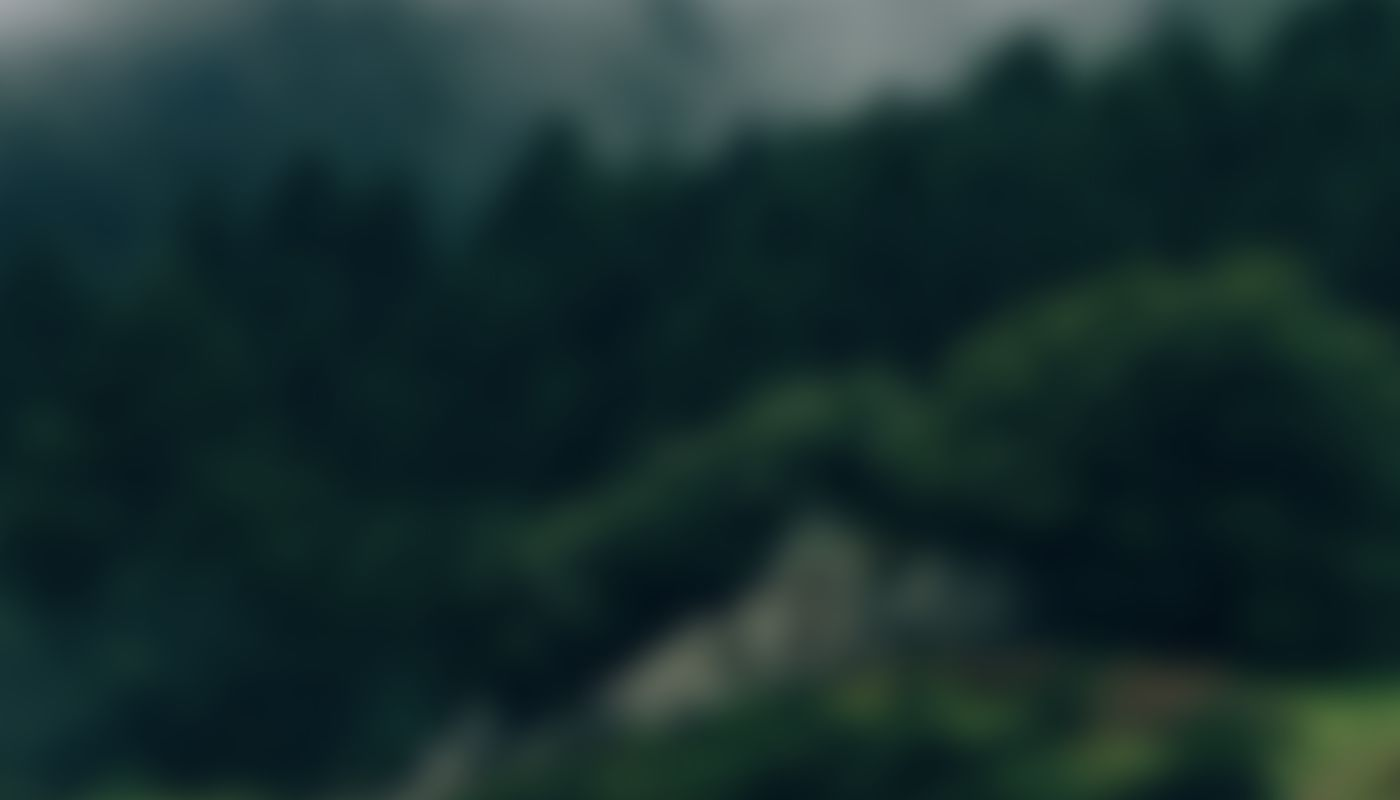
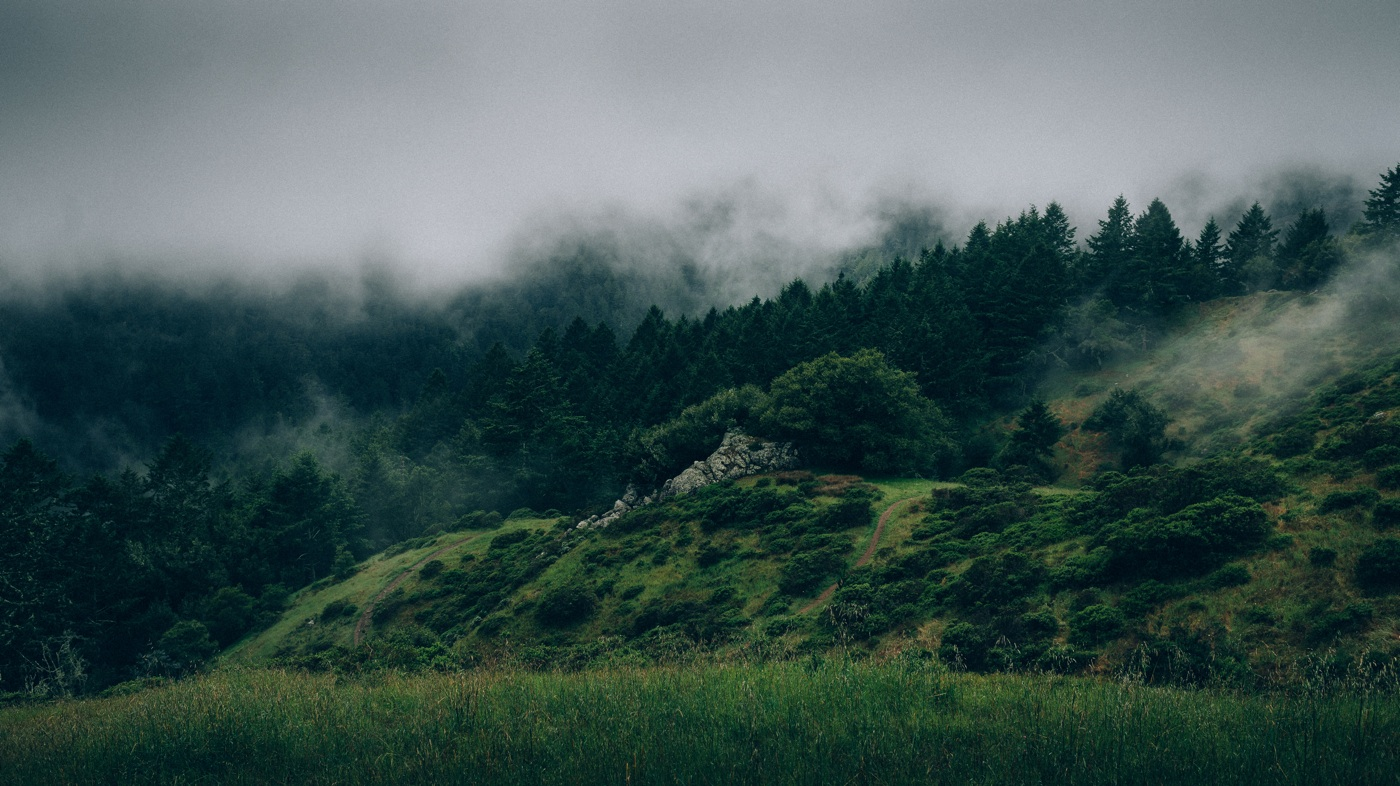
Removed calls to external images, added optimized bg

diff --git a/_includes/css/main.css b/_includes/css/main.css
@@ -51,13 +51,11 @@ header {
     text-align: center;
     color: #fff;
     background: black;
-    /*background-image: url('/img/river.jpg');*/
-    background-image: url('https://s3.amazonaws.com/ooomf-com-files/IHLjdHdzSvi0rgUMMlSK_TE3_0286.jpg');
+    background-image: url('/img/bg.jpg');
     background-size: cover;
     background-position-y: 50%;
+    height: 500px;
 }
-
-/*https://s3.amazonaws.com/ooomf-com-files/pygwO3glRbaBCh2uRyd4_8420_rgb.jpg*/
 
 header .container {
     padding-top: 50px;
@@ -70,6 +68,7 @@ header img {
 }
 
 header hr {
+    visibility: hidden;
     margin-top: 25px;
     margin-bottom: 25px;
     border-top: 1px solid rgba(255,255,255,.15);
@@ -110,6 +109,16 @@ nav a:hover {
 
 #header-logo {
     position: relative;
+}
+
+.grid-bg {
+    width: 100%;
+    height: 100%;
+    position: absolute;
+    z-index: 999;
+    background-image: url('/img/grid.png');
+    background-position: 50% 75%;
+    overflow: visible;
 }
 
 @media(min-width:768px) {
@@ -226,8 +235,8 @@ section h2 {
 }
 
 section.success {
-    color: #fff;
-    background: url('https://s3.amazonaws.com/ooomf-com-files/xDtuvK3GRJGUSUHgj0ew_IMG_3860.jpg');
+    /*color: #fff;*/
+    /*background: url('https://s3.amazonaws.com/ooomf-com-files/xDtuvK3GRJGUSUHgj0ew_IMG_3860.jpg');*/
     background-size: cover;
     background-position-y: 50%;
 }
@@ -521,7 +530,7 @@ footer .footer-below {
 .pattern-overlay {
     background: rgba(0,0,0,0.75);
     padding: 110px 0 32px;
-    min-height: 496px;
+    height: 100%;
 }
 
 .pattern-overlay.subdued {

diff --git a/_includes/header.html b/_includes/header.html
@@ -35,6 +35,7 @@
     </nav>
 
     <header class="content-section">
+        <div class="grid-bg"></div>
         <div class="pattern-overlay subdued">
             <div class="container">
                 <div class="row parallax">
